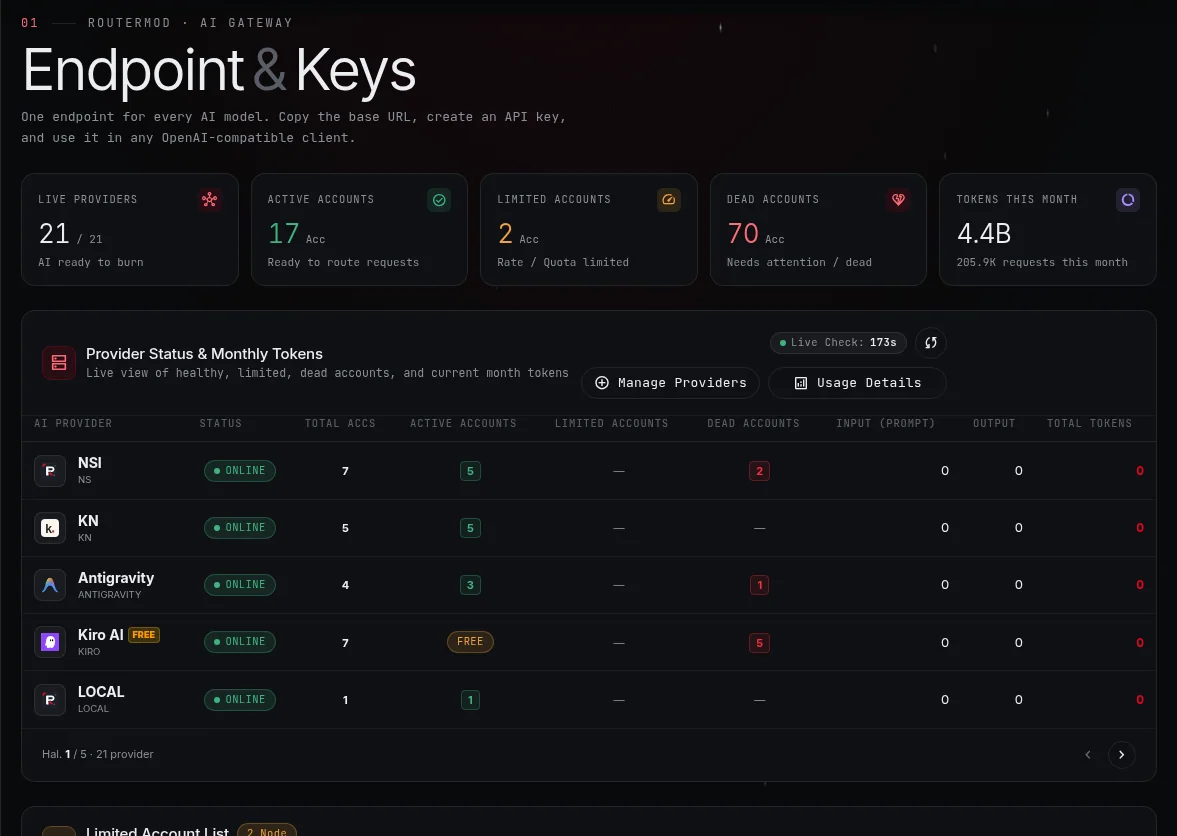
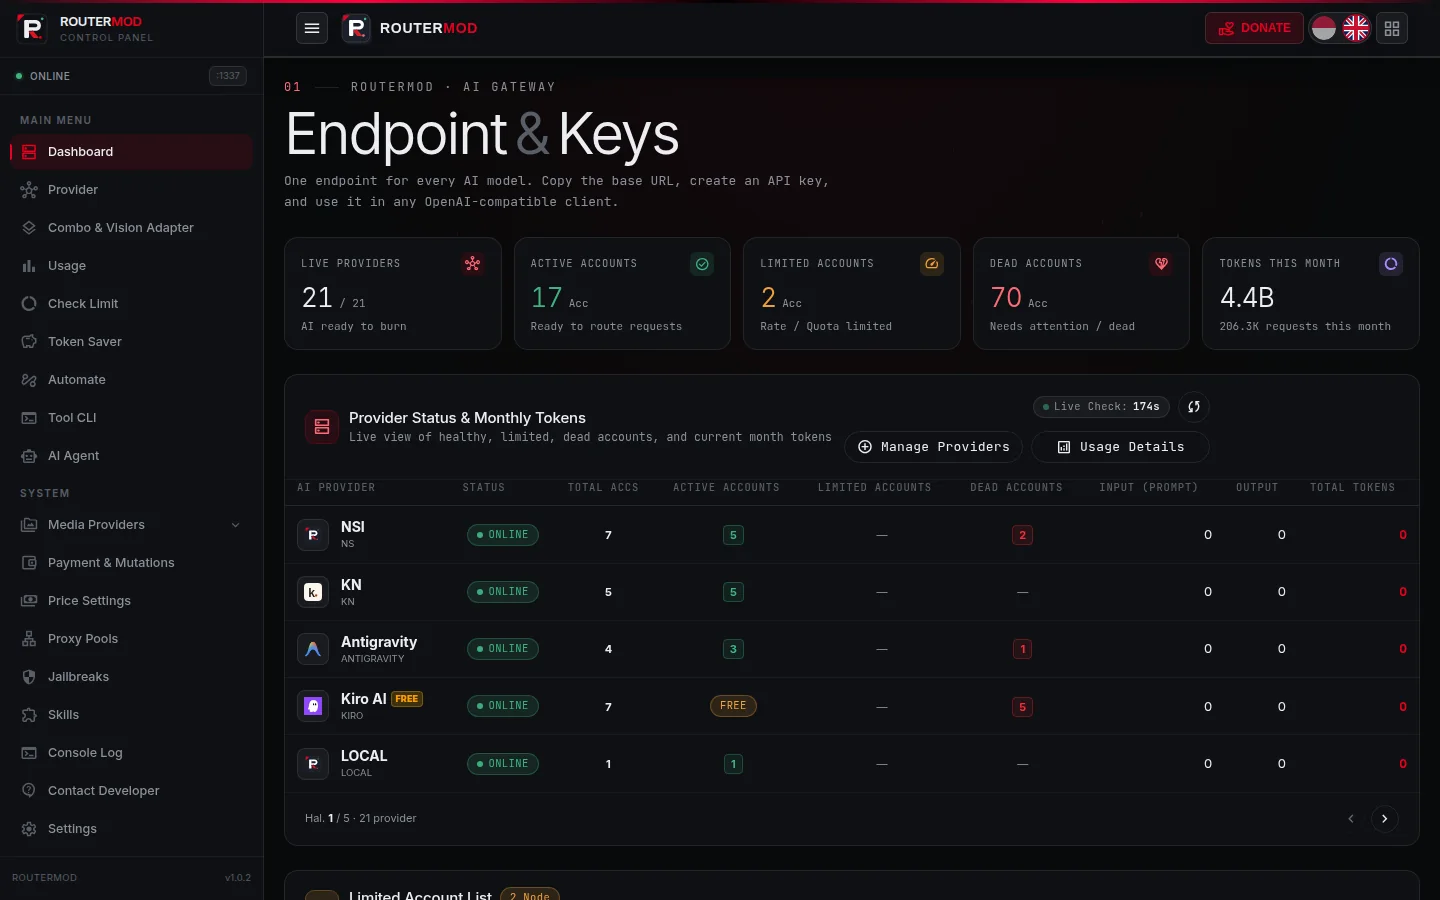
docs: use full-viewport screenshots in README

diff --git a/README.md b/README.md
@@ -15,7 +15,7 @@ A self-hosted AI gateway built on [9Router](https://github.com/decolua/9router),
 
 <sub><strong>English</strong> · <a href="#ringkasan-bahasa-indonesia">Bahasa Indonesia</a></sub>
 
-<a href="images/routermod-overview.webp"><img src="images/routermod-overview.webp" alt="RouterMod endpoint and keys dashboard showing provider health, account totals, and monthly token usage" width="1177" height="836" /></a>
+<a href="images/routermod-overview.webp"><img src="images/routermod-overview.webp" alt="RouterMod endpoint and keys dashboard showing provider health, account totals, and monthly token usage" width="1440" height="900" /></a>
 
 <sub>The Endpoint &amp; Keys overview: provider health, active accounts, and monthly token usage at a glance. Click any screenshot to view it at full size.</sub>
 
@@ -57,37 +57,37 @@ Sign in while viewing recent gateway activity and the Top Models ranking, based 
 
 Turn providers on or off, check connection health, and see which accounts are live. Custom OpenAI- and Anthropic-compatible endpoints appear alongside the built-in integrations.
 
-<a href="images/routermod-providers.webp"><img src="images/routermod-providers.webp" alt="Provider management page with provider cards, active account counts, health checks, and custom compatible endpoints" width="1177" height="836" /></a>
+<a href="images/routermod-providers.webp"><img src="images/routermod-providers.webp" alt="Provider management page with provider cards, active account counts, health checks, and custom compatible endpoints" width="1440" height="900" /></a>
 
 ### Model Control Center
 
 Browse provider catalogs, search model names, and control which models are exposed through the API.
 
-<a href="images/routermod-models.webp"><img src="images/routermod-models.webp" alt="Model Control Center with searchable provider catalogs and per-model enable switches" width="1177" height="836" /></a>
+<a href="images/routermod-models.webp"><img src="images/routermod-models.webp" alt="Model Control Center with searchable provider catalogs and per-model enable switches" width="1440" height="900" /></a>
 
 ### Combos and Vision Adapter
 
 Group models under one name and choose a routing strategy. The screenshot shows the initial combo state and the vision and audio adapter configuration.
 
-<a href="images/routermod-combos.webp"><img src="images/routermod-combos.webp" alt="Combo configuration page showing fallback, round robin, fusion, and vision and audio adapter controls" width="1177" height="836" /></a>
+<a href="images/routermod-combos.webp"><img src="images/routermod-combos.webp" alt="Combo configuration page showing fallback, round robin, fusion, and vision and audio adapter controls" width="1440" height="900" /></a>
 
 ### API key dashboard
 
 Every API key gets its own usage view: requests per day, token totals, recorded cost, models used, and recent requests. Switch the period for a shorter window or use the lifetime summary.
 
-<a href="images/routermod-dashboard-keys.webp"><img src="images/routermod-dashboard-keys.webp" alt="API key dashboard showing lifetime requests, tokens, recorded cost, requests per day, and recent activity" width="1177" height="836" /></a>
+<a href="images/routermod-dashboard-keys.webp"><img src="images/routermod-dashboard-keys.webp" alt="API key dashboard showing lifetime requests, tokens, recorded cost, requests per day, and recent activity" width="1440" height="900" /></a>
 
 ### All-time leaderboard
 
 Top Models &amp; Keys ranks the most used models and keys by total requests across all recorded usage. Key names are masked unless you are signed in with the admin key.
 
-<a href="images/routermod-top-models-keys.webp"><img src="images/routermod-top-models-keys.webp" alt="All-time leaderboard with the top 10 models and top 10 keys ranked by total requests and token usage" width="1177" height="836" /></a>
+<a href="images/routermod-top-models-keys.webp"><img src="images/routermod-top-models-keys.webp" alt="All-time leaderboard with the top 10 models and top 10 keys ranked by total requests and token usage" width="1440" height="900" /></a>
 
 ### System settings
 
 Manage dashboard language, password and login mode, routing and network preferences, and local database backups from one page.
 
-<a href="images/routermod-profile.webp"><img src="images/routermod-profile.webp" alt="System settings page with language, security, login mode, local database backup, and display theme controls" width="1177" height="836" /></a>
+<a href="images/routermod-profile.webp"><img src="images/routermod-profile.webp" alt="System settings page with language, security, login mode, local database backup, and display theme controls" width="1440" height="900" /></a>
 
 ## Features
 
